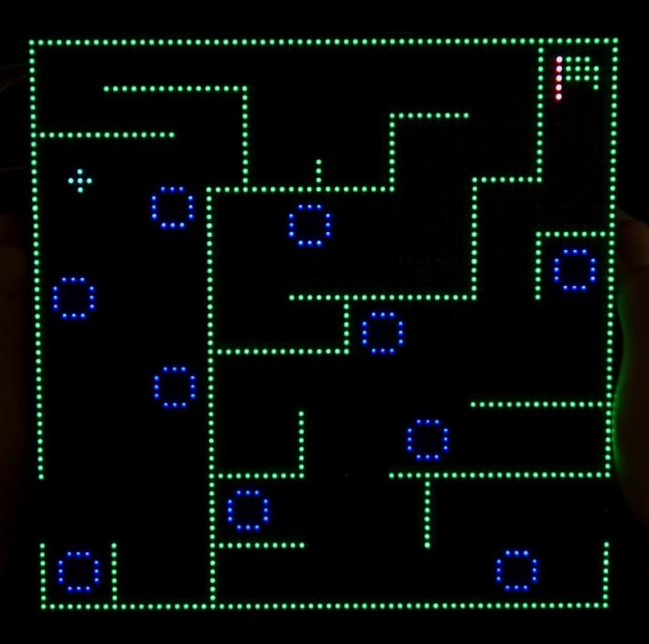
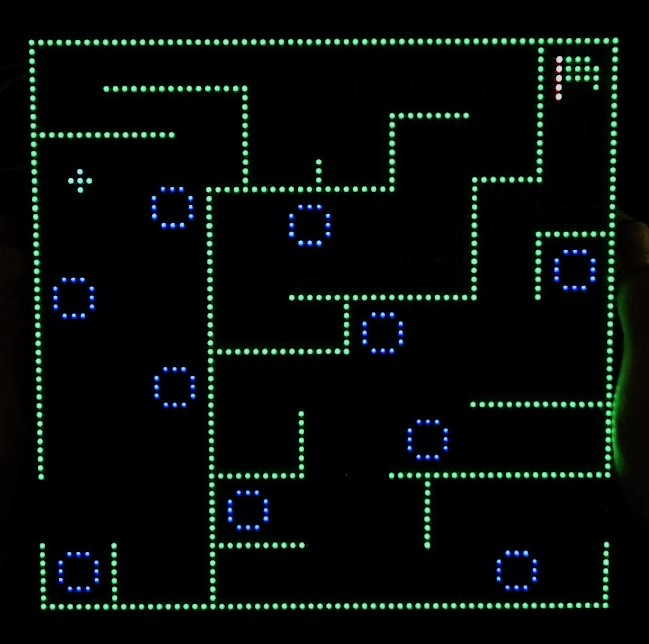
thumbnail adjustments

diff --git a/docs/_projects/project_labyrinth.md b/docs/_projects/project_labyrinth.md
@@ -2,8 +2,8 @@
 layout: project
 title: "LED Labyrinth"
 permalink: /labyrinth/
-thumbnail: /assets/images/thumbnails/labyrinth_thumb.jpg
-hero_image: /assets/images/thumbnails/labyrinth_thumb.jpg
+thumbnail: /assets/images/thumbnails/labyrinth_thumb_2.jpg
+hero_image: /assets/images/thumbnails/labyrinth_thumb_2.jpg
 github: https://github.com/evndeist/LED-Labyrinth
 hidden: false
 
